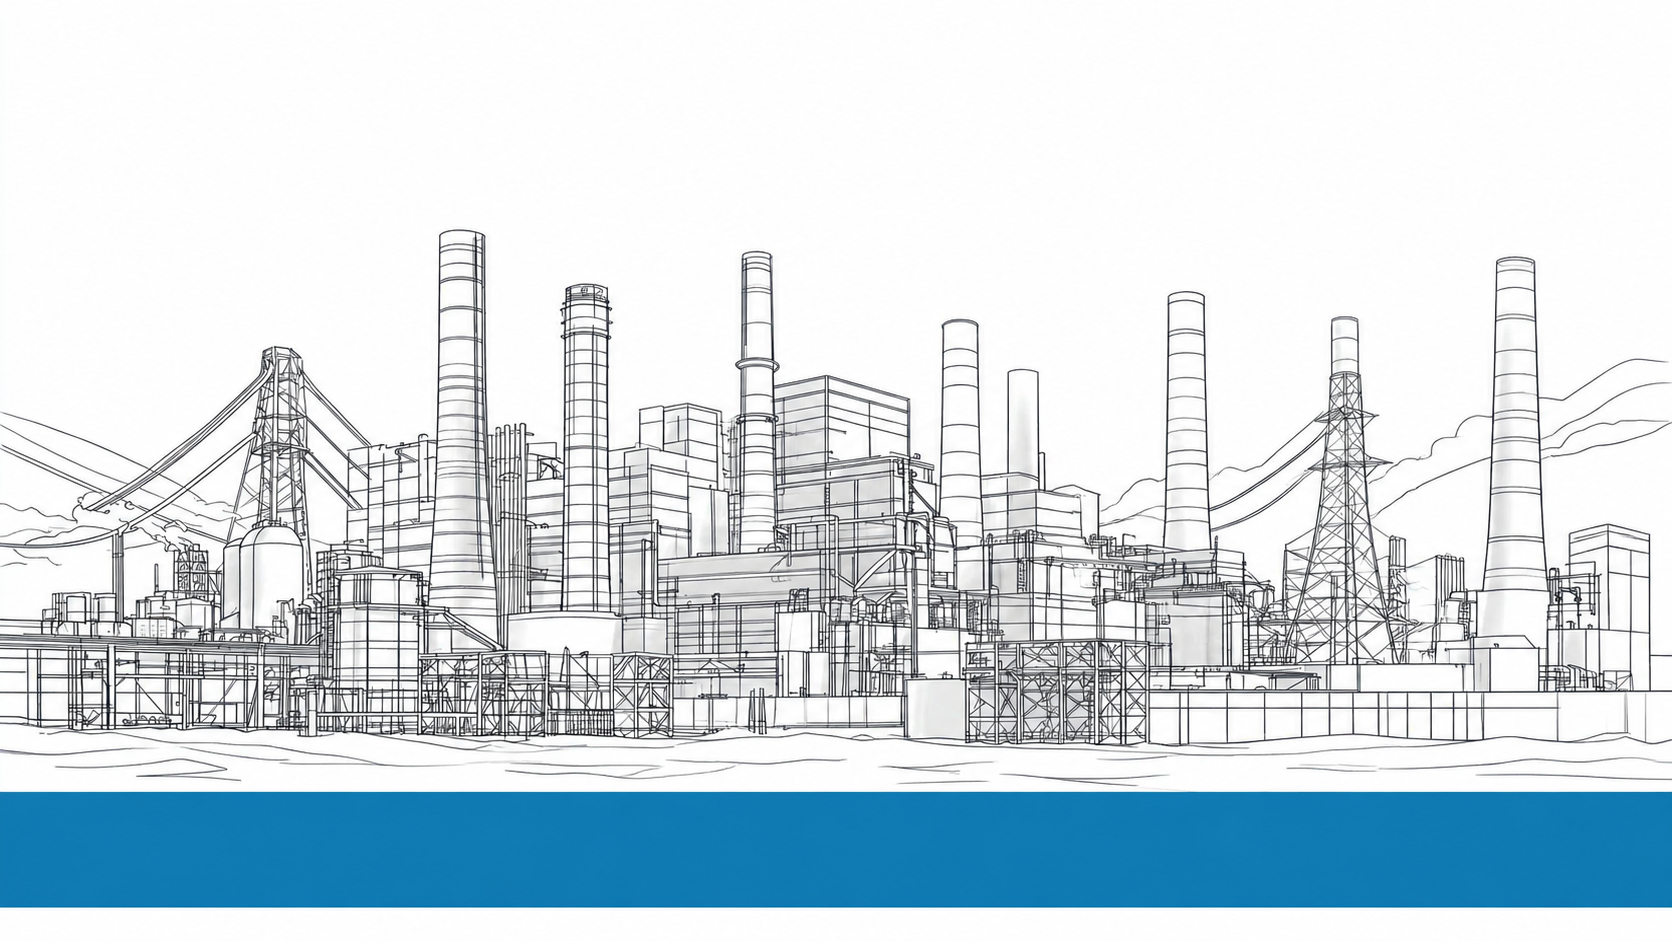
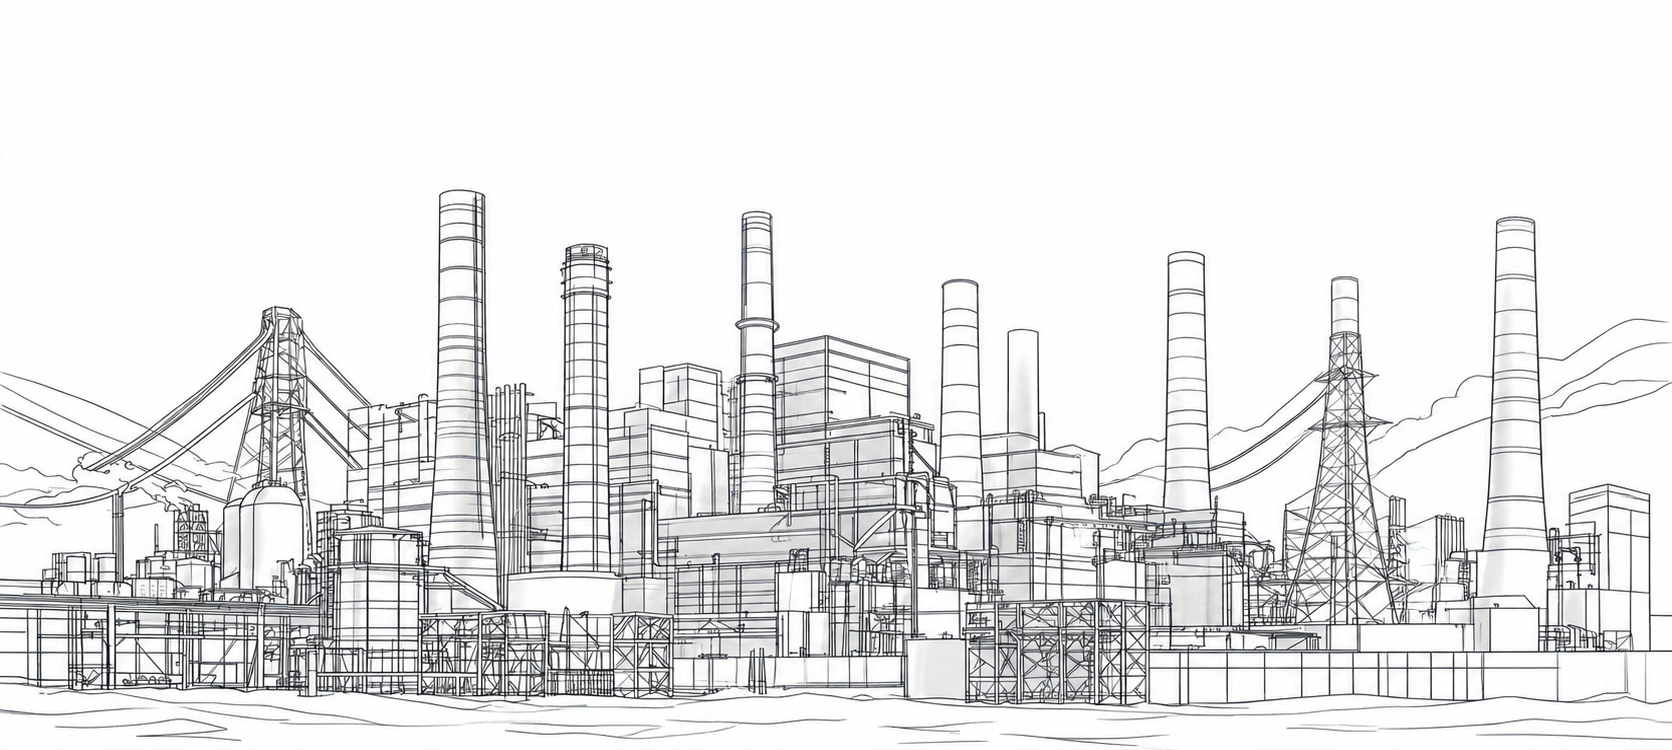
Polish copy and responsive factory artwork

diff --git a/app/page.tsx b/app/page.tsx
@@ -1,13 +1,34 @@
 const collaborationDimensions = [
-  'Physical coordination: handoffs, shared loads, joint manipulation',
-  'Task coordination: role division, sequencing, turn-taking',
-  'Interactive adaptation: intent signaling, response, correction, recovery',
+  {
+    label: 'Physical coordination',
+    description: 'handoffs, shared loads, joint manipulation',
+  },
+  {
+    label: 'Task coordination',
+    description: 'role division, sequencing, turn-taking',
+  },
+  {
+    label: 'Interactive adaptation',
+    description: 'intent signaling, response, correction, recovery',
+  },
 ];
 
 const marketShifts = [
-  'Supply-side: Factories are generating more data, with 78% of large manufacturers putting over 20% of improvement budgets into smart manufacturing (Deloitte, 2025).',
-  'Model-side: Robots are learning more from data, with 1,000× more pretraining raising average task performance from 20% to 53% (Dyna Robotics, 2026).',
-  'Demand-side: Labs are spending more on data, with robotics data spend expected to exceed $3B over the next two years (Bessemer, 2026).',
+  {
+    label: 'Supply-side',
+    description:
+      'Factories are generating more data, with 78% of large manufacturers putting over 20% of improvement budgets into smart manufacturing (Deloitte, 2025).',
+  },
+  {
+    label: 'Model-side',
+    description:
+      'Robots are learning more from data, with 1,000× more pretraining raising average task performance from 20% to 53% (Dyna Robotics, 2026).',
+  },
+  {
+    label: 'Demand-side',
+    description:
+      'Labs are spending more on data, with robotics data spend expected to exceed $3B over the next two years (Bessemer, 2026).',
+  },
 ];
 
 const milestones = [
@@ -42,17 +63,18 @@ export default function Home() {
               Duet’s dataset captures what single-actor data misses:
             </p>
             <ul className="dash-list">
-              {collaborationDimensions.map((dimension) => (
-                <li key={dimension}>{dimension}</li>
+              {collaborationDimensions.map(({ label, description }) => (
+                <li key={label}>
+                  <em>{label}:</em> {description}
+                </li>
               ))}
             </ul>
 
             <p>
               And of course, we capture these interactions across diverse, real-world
-              worksites to understand how teams coordinate, where workflows break, and why
-              the best crews move faster. One dataset, two customers: each deployment
-              improves operations for teams today and builds training data for robots
-              working alongside them tomorrow.
+              worksites. One dataset, two customers: each deployment improves operations
+              for teams today and builds training data for robots working alongside them
+              tomorrow.
             </p>
           </section>
 
@@ -60,8 +82,10 @@ export default function Home() {
             <h2 id="why-now-heading">Why Now</h2>
             <p className="list-intro">Duet is a bet on three converging shifts:</p>
             <ul className="dash-list">
-              {marketShifts.map((shift) => (
-                <li key={shift}>{shift}</li>
+              {marketShifts.map(({ label, description }) => (
+                <li key={label}>
+                  <em>{label}:</em> {description}
+                </li>
               ))}
             </ul>
           </section>
@@ -76,10 +100,9 @@ export default function Home() {
             </p>
 
             <p>
-              <em>In middle school,</em> Allen placed 7th at the FTC World Championships
-              against teams dominated by high school seniors. Idhant pitched to the
-              Mastercard Foundation board. Andrew raised a $30k fund that has returned 274%
-              to date.
+              <em>In middle school,</em> Allen placed 7th at the FTC Robotics World
+              Championships against teams dominated by high school seniors. Idhant pitched
+              to the Mastercard Foundation board. Andrew raised a $30k fund, now up 274%.
             </p>
 
             <div className="milestones">
@@ -102,8 +125,8 @@ export default function Home() {
           <section className="copy-section contact-section" aria-labelledby="contact-heading">
             <h2 id="contact-heading">Contact</h2>
             <p>
-              We’re hiring. If you’re exceptional with multimodal sensing, robot perception,
-              or operations, email{' '}
+              We’re hiring. If you’re exceptional with multimodal sensing, data infra, or
+              ops, email{' '}
               <a className="paint-underline" href="mailto:research@duetlabs.co">
                 research@duetlabs.co
               </a>

diff --git a/app/globals.css b/app/globals.css
@@ -4,9 +4,9 @@
   --accent: #7b8388;
   --accent-light: #a7adb1;
   --focus: #59666e;
-  --copy-size: clamp(1rem, 0.96rem + 0.16vw, 1.12rem);
-  --flow-gap: 1.5em;
-  --section-gap: 2.35em;
+  --copy-size: clamp(0.9rem, 0.86rem + 0.12vw, 1.02rem);
+  --flow-gap: 1em;
+  --section-gap: 1.55em;
 }
 
 * {
@@ -24,7 +24,7 @@ body {
   overflow-x: clip;
   background-color: var(--paper);
   background-image:
-    linear-gradient(rgba(255, 255, 255, 0.72), rgba(255, 255, 255, 0.72)),
+    linear-gradient(rgba(255, 255, 255, 0.68), rgba(255, 255, 255, 0.68)),
     url('/graph-paper.png');
   background-position: left top;
   background-size: 256px 256px;
@@ -33,7 +33,7 @@ body {
   font-family: var(--font-newsreader), 'Iowan Old Style', Baskerville, 'Times New Roman', serif;
   font-size: var(--copy-size);
   font-weight: 400;
-  line-height: 1.48;
+  line-height: 1.36;
   letter-spacing: -0.005em;
   font-optical-sizing: auto;
   text-rendering: optimizeLegibility;
@@ -55,10 +55,10 @@ body {
 }
 
 .letter {
-  width: min(calc(100% - 2.8rem), 78ch);
+  width: min(calc(100% - 3rem), 78ch);
   margin: 0 auto;
-  padding-top: clamp(2.5rem, 6vw, 6rem);
-  padding-bottom: clamp(2.5rem, 5vw, 4.5rem);
+  padding-top: clamp(1.5rem, 3vw, 2.75rem);
+  padding-bottom: clamp(1.5rem, 3vw, 2.5rem);
 }
 
 .letter h1,
@@ -175,7 +175,7 @@ body {
 }
 
 .site-footer {
-  width: min(calc(100% - 2.8rem), 78ch);
+  width: min(calc(100% - 3rem), 78ch);
   margin: auto auto 0;
   padding: 0 0 clamp(1.4rem, 3vw, 2.4rem);
   display: flex;
@@ -269,18 +269,27 @@ body {
 
 .factory-scene {
   width: 100%;
-  aspect-ratio: 1672 / 790;
+  height: min(44.86vw, 40rem);
   margin: 0;
   flex: none;
+  position: relative;
   overflow: hidden;
-  background-image: url('/factory-linework-wide.png');
-  background-position: center top;
-  background-size: 100% auto;
-  background-repeat: no-repeat;
   filter: grayscale(1) contrast(1.06);
   mix-blend-mode: multiply;
   opacity: 0.5;
   pointer-events: none;
+}
+
+.factory-scene::before {
+  content: '';
+  position: absolute;
+  inset: 0 auto 0 50%;
+  width: 100%;
+  transform: translateX(-50%);
+  background-image: url('/factory-linework-wide.png?v=3');
+  background-position: center top;
+  background-size: 100% 100%;
+  background-repeat: no-repeat;
 }
 
 @keyframes paint-redraw {
@@ -330,9 +339,9 @@ html[data-dot-cursor-live] * {
 
 @media (max-width: 600px) {
   :root {
-    --copy-size: 1rem;
-    --flow-gap: 1.4em;
-    --section-gap: 2.1em;
+    --copy-size: 0.92rem;
+    --flow-gap: 1.05em;
+    --section-gap: 1.6em;
   }
 
   .letter {
